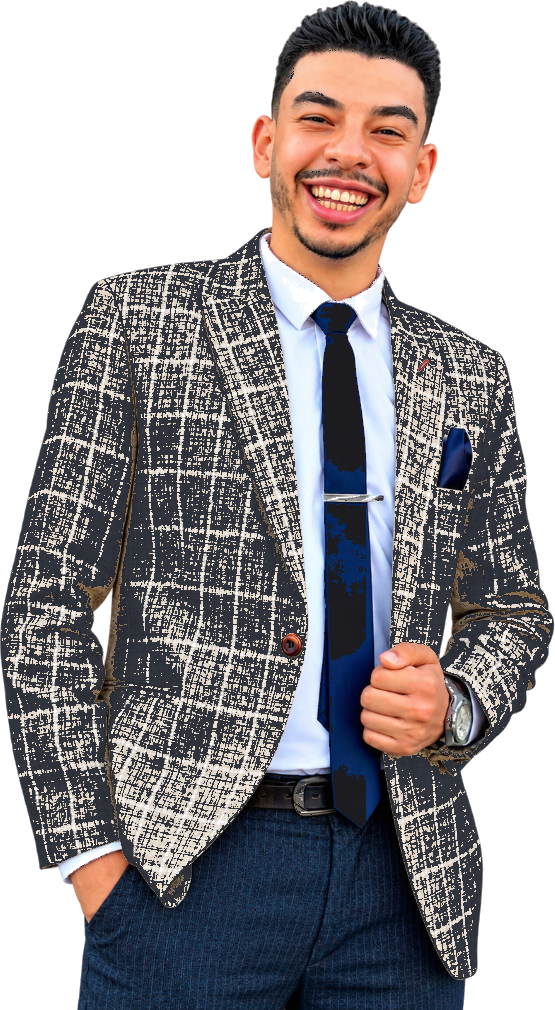
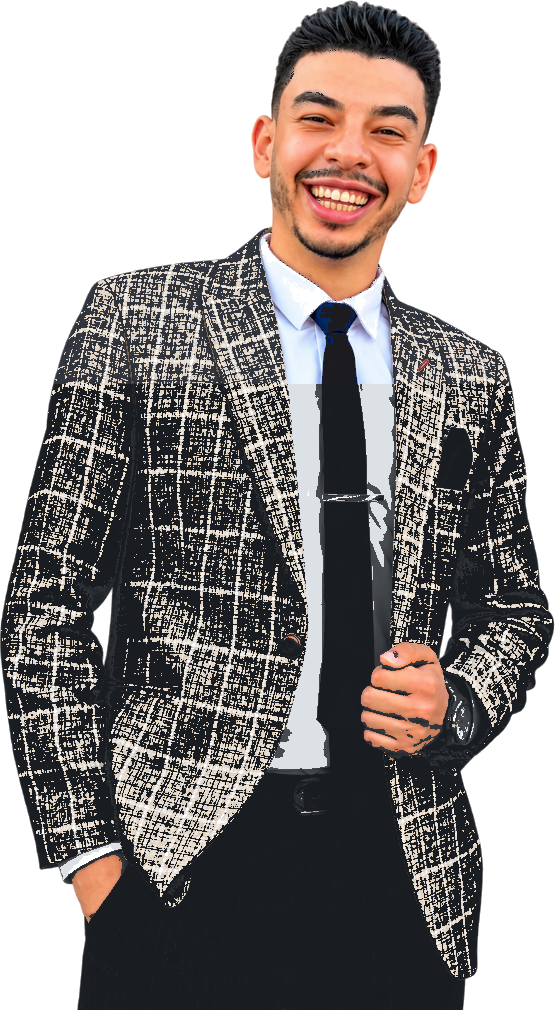
feat: change Card 4 outfit to smart casual black shirt (non-suit) for outfit variety

Changed region(s): [[0.0, 0.3683, 1.0, 1.0], [0.6432, 0.3683, 0.6739, 0.4297]]

diff --git a/apps/web/src/components/home/FeaturesSection.tsx b/apps/web/src/components/home/FeaturesSection.tsx
@@ -35,25 +35,25 @@ export default function FeaturesSection() {
       id: 1,
       title: t('features.lecturesTitle', 'محاضرات فيديو عالية الجودة'),
       description: t('features.lecturesDesc', 'شرح تفصيلي للمنهج مع سلايدات توضيحية وأمثلة واقعية لبناء فهم عميق.'),
-      image: '/assets/features/feature-3-cutout.png?v=20261001_v12'
+      image: '/assets/features/feature-3-cutout.png?v=20261001_v14'
     },
     {
       id: 2,
       title: t('features.examsTitle', 'امتحانات تفاعلية وتقييم فوري'),
       description: t('features.examsDesc', 'اختبر مستواك بعد كل درس مع إظهار الإجابات النموذجية والتحليل الفوري لأدائك.'),
-      image: '/assets/features/feature-2-cutout.png?v=20261001_v12'
+      image: '/assets/features/feature-2-cutout.png?v=20261001_v14'
     },
     {
       id: 3,
       title: t('features.storeTitle', 'متجر الكتب والمذكرات'),
       description: t('features.storeDesc', 'اطلب مذكرات وكتب المنهج الرسمية تصلك حتى باب المنزل أو حملها بصيغة PDF.'),
-      image: '/assets/features/feature-4-cutout.png?v=20261001_v12'
+      image: '/assets/features/feature-4-cutout.png?v=20261001_v14'
     },
     {
       id: 4,
       title: t('features.walletTitle', 'محفظة شحن كروت المنصة'),
       description: t('features.walletDesc', 'سهولة الاشتراك وشحن الحساب عبر جميع وسائل الدفع المباشرة أو المحافظ الإلكترونية.'),
-      image: '/assets/features/feature-1-cutout.png?v=20261001_v12'
+      image: '/assets/features/feature-1-cutout.png?v=20261001_v14'
     }
   ];
 
